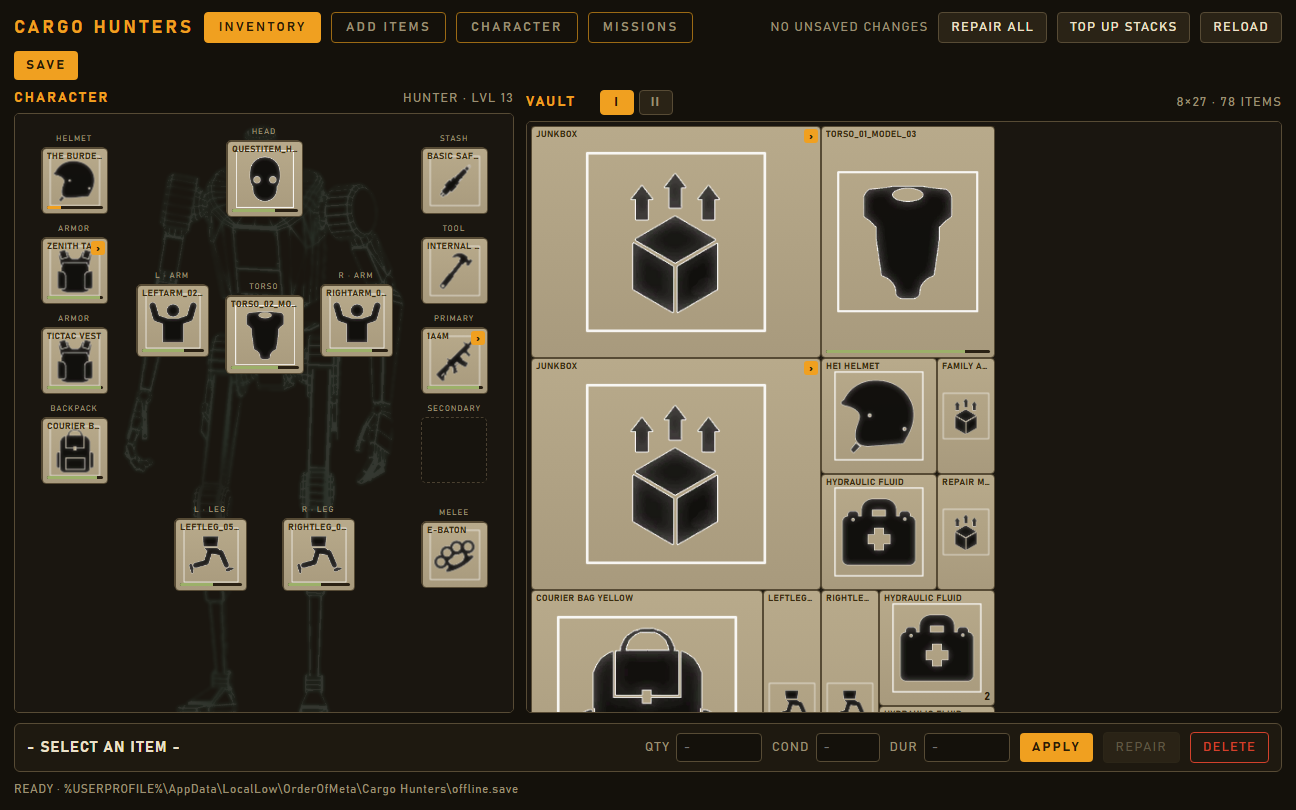
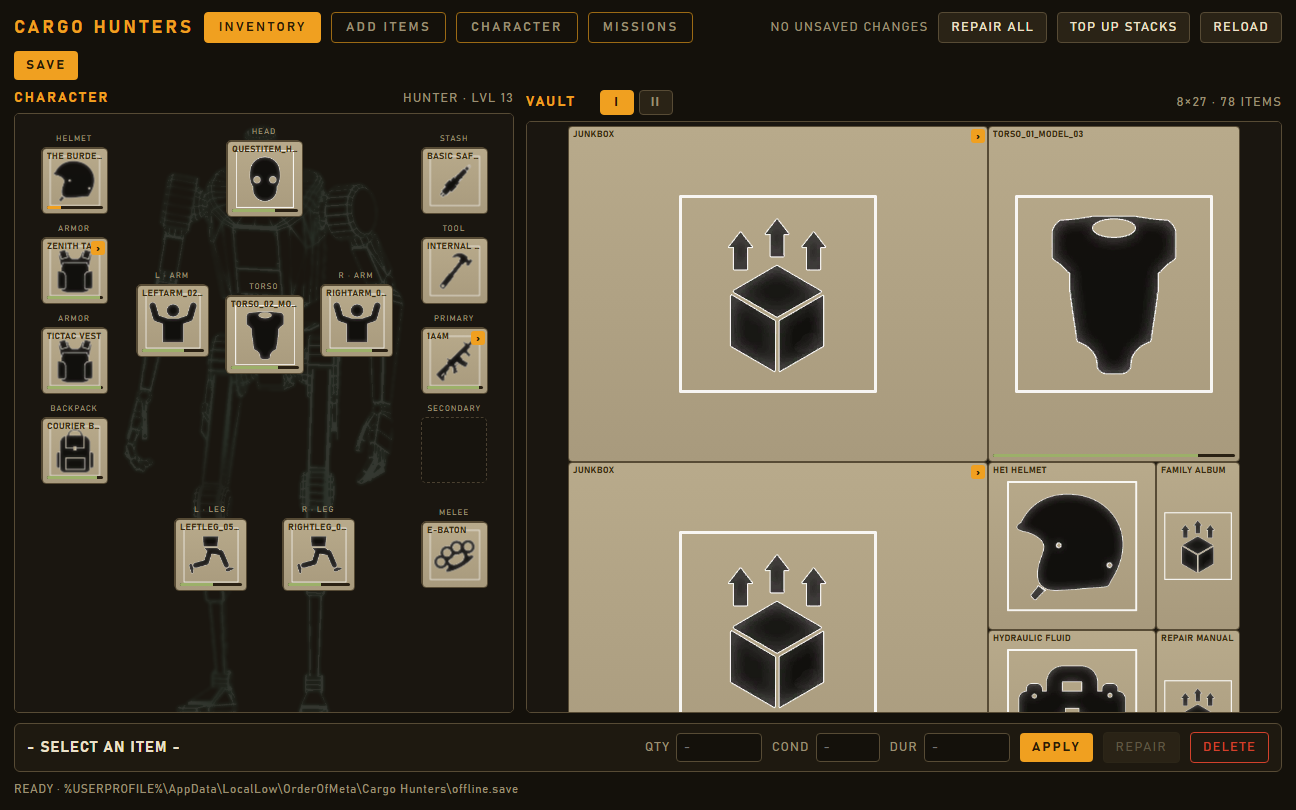
Vault grid: show full page (empty slots), fill pane width, bump to 2.1.0
Addresses feedback on the vault layout:
- Render at least PAGE_ROWS (28) rows so empty slots are visible and a near-empty
  page (e.g. page II with one item) no longer collapses to a single row - you can
  see where items COULD go.
- Cell size now scales to fill the pane width (clamped 44-84px) and the grid is
  centered, so the 8-column grid uses the horizontal space instead of leaving a
  big gap on the right - column count and item positions are unchanged. The
  empty-cell guides track the live cell size so they stay aligned.
- Version -> 2.1.0 for the release (Tauri rewrite + pages, copy/paste,
  multi-select, top-up, missions, and the hardening pass).

Changed region(s): [[0.4012, 0.1543, 0.9568, 0.8951]]

diff --git a/app/src/components/VaultGrid.tsx b/app/src/components/VaultGrid.tsx
@@ -1,9 +1,11 @@
-import { For, Show, createMemo, createSignal } from "solid-js";
+import { For, Show, createMemo, createSignal, onCleanup, onMount } from "solid-js";
 import type { ItemView } from "../api";
 import { gridBlocks, type Block } from "../layout";
 import ItemTile from "./ItemTile";
 
-const CELL = 58;
+const DEFAULT_CELL = 58;
+const MIN_CELL = 44;
+const MAX_CELL = 84;
 
 interface Props {
   items: ItemView[]; // children of the container being shown
@@ -18,6 +20,8 @@ interface Props {
   /** Right-click: item id under the cursor, or null for empty space. */
   onContextMenu?: (id: string | null, x: number, y: number) => void;
   cols?: number;
+  /** Minimum rows to draw, so empty page slots are visible (vault pages). */
+  minRows?: number;
 }
 
 interface Drag {
@@ -41,10 +45,28 @@ interface Box {
 export default function VaultGrid(p: Props) {
   const layout = createMemo(() => gridBlocks(p.items));
   const cols = () => p.cols ?? layout().gw;
-  const rows = () => Math.max(layout().gh, 1);
+  const rows = () => Math.max(layout().gh, p.minRows ?? 1, 1);
   const [drag, setDrag] = createSignal<Drag | null>(null);
   const [box, setBox] = createSignal<Box | null>(null);
+  // Cell size scales the fixed-column grid to fill the pane width (so the vault
+  // uses the horizontal space instead of leaving a big gap on the right), while
+  // keeping the game's column count and every item's position intact.
+  const [cellSize, setCellSize] = createSignal(DEFAULT_CELL);
+  const cell = () => cellSize();
   let gridEl: HTMLDivElement | undefined;
+  const measure = () => {
+    const parent = gridEl?.parentElement;
+    if (!parent) return;
+    const avail = parent.clientWidth - 8; // grid keeps 4px side margins
+    const c = Math.max(MIN_CELL, Math.min(MAX_CELL, Math.floor(avail / cols())));
+    if (c > 0) setCellSize(c);
+  };
+  onMount(() => {
+    measure();
+    const ro = new ResizeObserver(measure);
+    if (gridEl?.parentElement) ro.observe(gridEl.parentElement);
+    onCleanup(() => ro.disconnect());
+  });
 
   const px = (clientX: number, clientY: number): [number, number] => {
     const r = gridEl!.getBoundingClientRect();
@@ -52,7 +74,7 @@ export default function VaultGrid(p: Props) {
   };
   const cellAt = (clientX: number, clientY: number): [number, number] => {
     const [x, y] = px(clientX, clientY);
-    return [Math.floor(x / CELL), Math.floor(y / CELL)];
+    return [Math.floor(x / cell()), Math.floor(y / cell())];
   };
   const blockAt = (ci: number, cj: number): Block | undefined =>
     layout().blocks.find((x) => ci >= x.i && ci < x.i + x.w && cj >= x.j && cj < x.j + x.h);
@@ -73,8 +95,8 @@ export default function VaultGrid(p: Props) {
   const onPointerDown = (e: PointerEvent) => {
     if (e.button !== 0) return; // left button only; right-click is handled by onContext
     const [x, y] = px(e.clientX, e.clientY);
-    const ci = Math.floor(x / CELL);
-    const cj = Math.floor(y / CELL);
+    const ci = Math.floor(x / cell());
+    const cj = Math.floor(y / cell());
     const b = blockAt(ci, cj);
     const additive = e.ctrlKey || e.metaKey;
 
@@ -84,8 +106,8 @@ export default function VaultGrid(p: Props) {
     }
     if (b) {
       // Double-click / arrow badge opens a container (pointer capture eats dblclick).
-      const rightPx = (b.i + b.w) * CELL;
-      const topPx = b.j * CELL;
+      const rightPx = (b.i + b.w) * cell();
+      const topPx = b.j * cell();
       const onBadge = b.item.isContainer && x >= rightPx - 22 && x <= rightPx && y >= topPx && y <= topPx + 22;
       const doubleClick = b.item.id === lastTap.id && e.timeStamp - lastTap.t < 350;
       if (onBadge || doubleClick) {
@@ -140,7 +162,7 @@ export default function VaultGrid(p: Props) {
         return;
       }
       const hit = layout().blocks.filter((b) => {
-        const bx0 = b.i * CELL, bx1 = (b.i + b.w) * CELL, by0 = b.j * CELL, by1 = (b.j + b.h) * CELL;
+        const bx0 = b.i * cell(), bx1 = (b.i + b.w) * cell(), by0 = b.j * cell(), by1 = (b.j + b.h) * cell();
         return bx0 < x1 && bx1 > x0 && by0 < y1 && by1 > y0;
       });
       p.onSelectBox?.(hit.map((b) => b.item.id));
@@ -165,7 +187,7 @@ export default function VaultGrid(p: Props) {
   const onContext = (e: MouseEvent) => {
     e.preventDefault();
     const [x, y] = px(e.clientX, e.clientY);
-    const b = blockAt(Math.floor(x / CELL), Math.floor(y / CELL));
+    const b = blockAt(Math.floor(x / cell()), Math.floor(y / cell()));
     // Right-clicking an item NOT already in the selection selects just it;
     // right-clicking a selected item keeps the (multi-)selection intact.
     if (b && !p.selectedIds.includes(b.item.id)) p.onSelect(b.item.id, false);
@@ -176,7 +198,11 @@ export default function VaultGrid(p: Props) {
     <div
       class="grid"
       ref={gridEl}
-      style={{ width: `${cols() * CELL}px`, height: `${rows() * CELL}px` }}
+      style={{
+        width: `${cols() * cell()}px`,
+        height: `${rows() * cell()}px`,
+        "background-size": `${cell()}px ${cell()}px`,
+      }}
       onPointerDown={onPointerDown}
       onPointerMove={onPointerMove}
       onPointerUp={onPointerUp}
@@ -188,18 +214,18 @@ export default function VaultGrid(p: Props) {
         {(b) => (
           <ItemTile
             item={b.item}
-            left={b.i * CELL}
-            top={b.j * CELL}
-            width={b.w * CELL}
-            height={b.h * CELL}
+            left={b.i * cell()}
+            top={b.j * cell()}
+            width={b.w * cell()}
+            height={b.h * cell()}
             selected={p.selectedIds.includes(b.item.id)}
           />
         )}
       </For>
       <Show when={drag()?.moved}>
         <div class="drag-ghost" classList={{ bad: !drag()!.ok }}
-          style={{ left: `${drag()!.ti * CELL}px`, top: `${drag()!.tj * CELL}px`,
-            width: `${drag()!.block.w * CELL}px`, height: `${drag()!.block.h * CELL}px` }} />
+          style={{ left: `${drag()!.ti * cell()}px`, top: `${drag()!.tj * cell()}px`,
+            width: `${drag()!.block.w * cell()}px`, height: `${drag()!.block.h * cell()}px` }} />
       </Show>
       <Show when={box()}>
         <div class="select-box" style={{

diff --git a/app/src/App.tsx b/app/src/App.tsx
@@ -17,6 +17,9 @@ type View = "inventory" | "add" | "character" | "missions";
 
 const ROMAN = ["", "I", "II", "III", "IV", "V", "VI", "VII", "VIII", "IX", "X"];
 const roman = (n: number): string => ROMAN[n] ?? String(n);
+// The game's stash page is 8 wide; render at least this many rows so empty
+// slots are visible (a near-empty second page no longer collapses to one row).
+const PAGE_ROWS = 28;
 
 export default function App() {
   const [snap, setSnap] = createSignal<Snapshot | null>(null);
@@ -297,7 +300,7 @@ export default function App() {
             </div>
             <div class="scroll">
               <Show when={snap()}>
-                <VaultGrid items={vaultItems()} cols={vaultMeta().cols} selectedIds={selIds()}
+                <VaultGrid items={vaultItems()} cols={vaultMeta().cols} minRows={PAGE_ROWS} selectedIds={selIds()}
                   onSelect={(id, additive) => (additive ? toggleSel(id) : setSel(id))}
                   onSelectBox={(ids) => setSelIds(ids)}
                   onMove={onMoveItem} onActivate={openFrom("inventory")}

diff --git a/app/src/theme.css b/app/src/theme.css
@@ -99,7 +99,7 @@ input:focus { outline: none; border-color: var(--amber); }
     linear-gradient(var(--grid-line) 1px, transparent 1px),
     linear-gradient(90deg, var(--grid-line) 1px, transparent 1px);
   background-size: var(--cell) var(--cell);
-  margin: 4px;
+  margin: 4px auto; /* center the fixed-column grid in a wider pane */
 }
 
 /* ---- item tile ---- */
